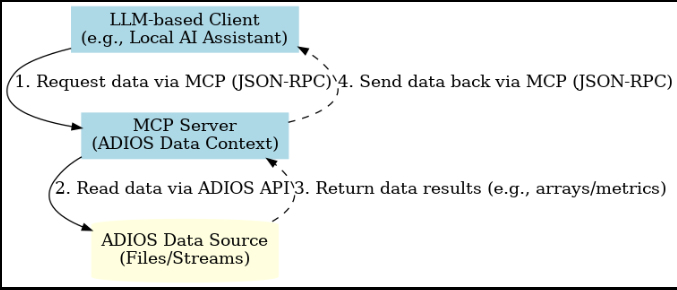
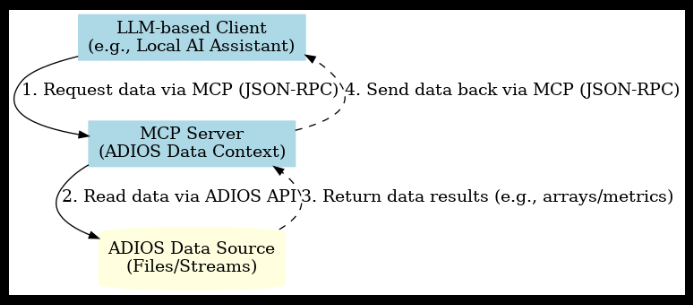
architecture image

Changed region(s): [[0.0, 0.0, 1.0, 0.9931], [0.4653, 0.3414, 0.4963, 0.4034]]

diff --git a/README.md b/README.md
@@ -16,6 +16,10 @@ A read-only Model Context Protocol (MCP) server for ADIOS datasets, enabling LLM
 - **Cross-Platform**  
   Pure Python implementation runs on Linux, macOS, and Windows. Package installable via `pip` or Spack.
 
+## Architecture
+
+ ![](https://github.com/sohamvsonar/AdiosMCP/blob/main/assets/architecture.png)
+
 
 ## Example Use-Cases
 
